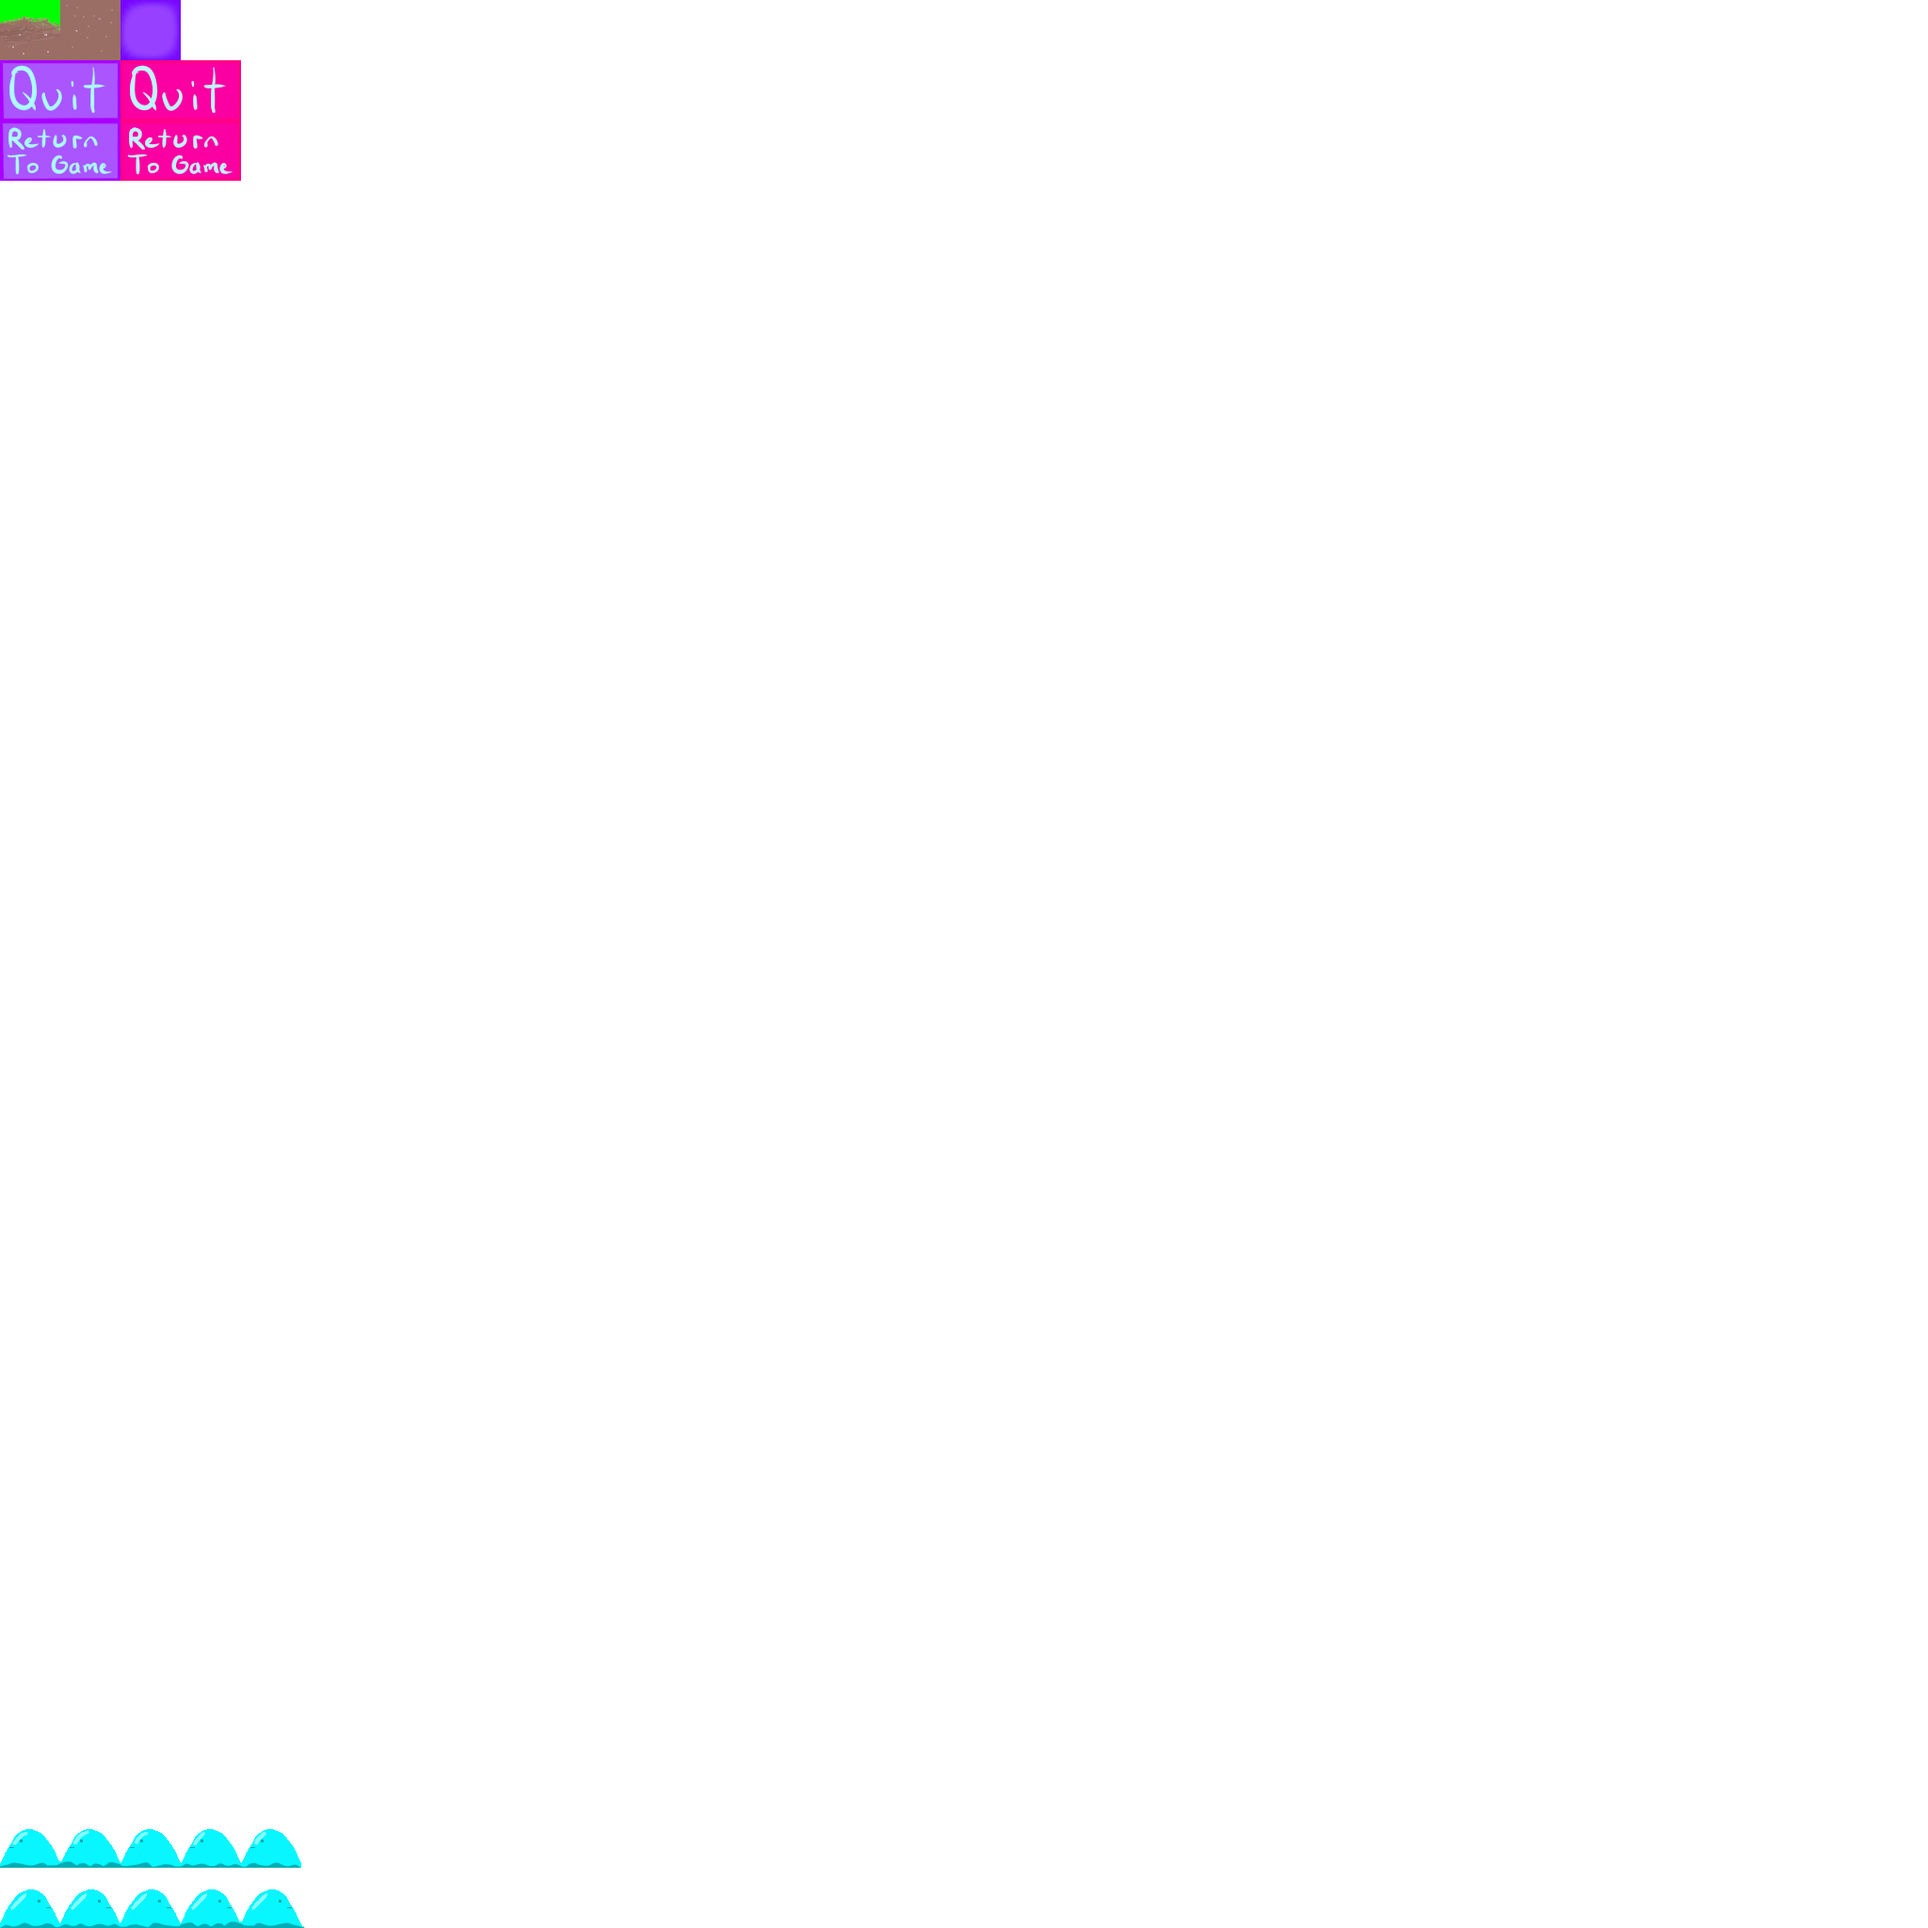
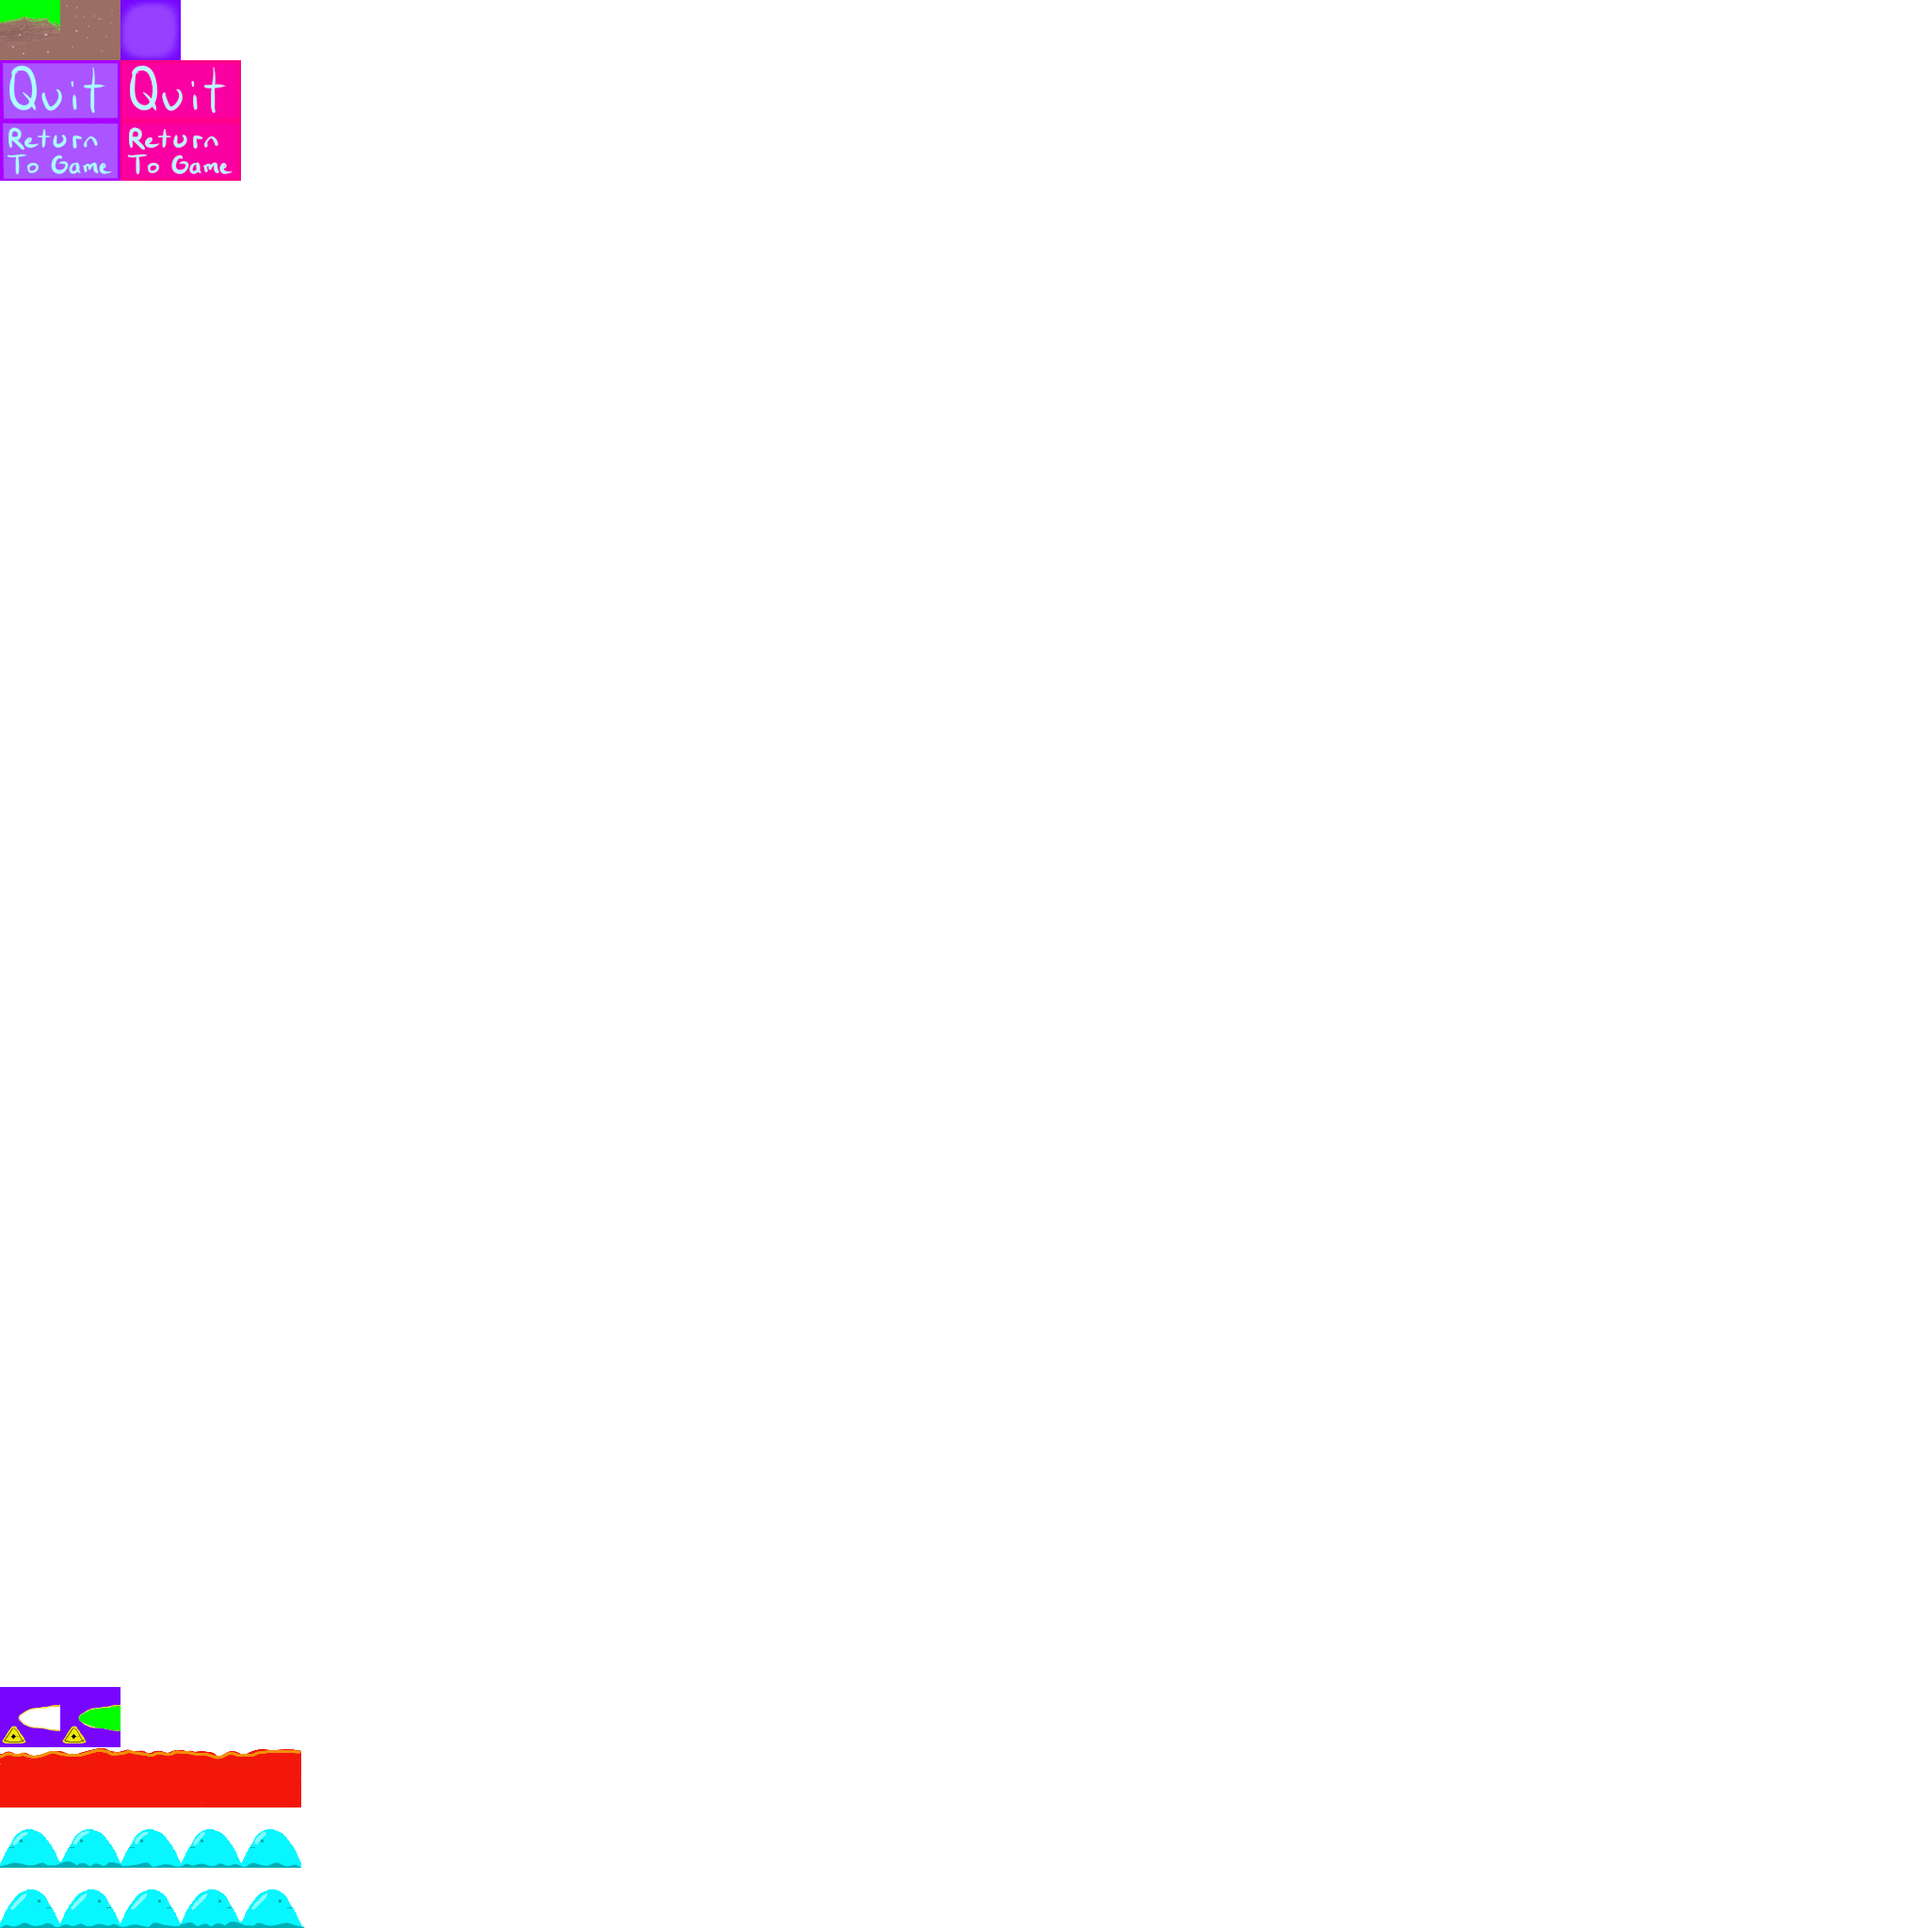
Drew more blocks

Changed region(s): [[0.0, 0.875, 0.1562, 0.9375]]

diff --git a/finalRefactor.cpp b/finalRefactor.cpp
@@ -147,7 +147,7 @@ namespace game
 		Vector2 playerDesiredMovement;
 		Vector2 absolutePos;
 		intVector2 terminalVelocity{256, 512};
-		int dragCoefficentX{4};
+		int dragCoefficentX{100};
 		int dragCoefficentY{128};
 		Rectangle source;
 		bool canJump{1};
@@ -160,7 +160,7 @@ namespace game
 		Rectangle getPredictedPosition(float &timeDelta, int xAxisOverride, int yAxisOverride)
 		{
 			// This is slightly smaller than the actual sprite because floating point approximation limitations
-			return {absolutePos.x + (velocity.x * timeDelta * xAxisOverride), absolutePos.y + (velocity.y * timeDelta * yAxisOverride), 63, 63};
+			return {(absolutePos.x) + (velocity.x * timeDelta * xAxisOverride), (absolutePos.y + 23) + (velocity.y * timeDelta * yAxisOverride), 63, 41};
 		}
 		void physicsStep(std::vector<Block> &obstecules, float timeDelta, Camera2D &mainCamera)
 		{
@@ -204,7 +204,6 @@ namespace game
 				yAxisWillCollide = CheckCollisionRecs(getPredictedPosition(timeDelta, 0, 1), obstecules.at(i).getRectangle());
 				if (yAxisWillCollide)
 				{
-					indexes[1] = i;
 					canJump = 1;
 					break;
 				}
@@ -218,6 +217,7 @@ namespace game
 					break;
 				}
 			}
+			std::abs(velocity.x) > 0.2f ? velocity.x = velocity.x : velocity.x = 0;
 			absolutePos.x += (velocity.x * timeDelta * !xAxisWillCollide);
 			absolutePos.y += (velocity.y * timeDelta * !yAxisWillCollide);
 			velocity.x = velocity.x * !xAxisWillCollide;
@@ -484,7 +484,7 @@ int main(int argc, char **argv)
 		float frameTime;
 		float fakeframeTimeForPhysics{1.0f / 60.0f};
 		int animationThreadSleep{100};
-		bool editMode{0};
+		int editMode{0};
 		bool inConsole{0};
 		bool showFPS{0};
 		std::string commandLineBuffer;
@@ -653,6 +653,11 @@ int main(int argc, char **argv)
 								if (arguments.at(0) == "/SHOWFPS")
 								{
 									showFPS = !showFPS;
+								}
+								if (arguments.at(0) == "/RESETLEVEL")
+								{
+									earth.generateTestLevel(BRICKTEXTURE);
+									slime.absolutePos = earth.playerStartingPosition;
 								}
 							}
 							catch (const std::exception &e)
